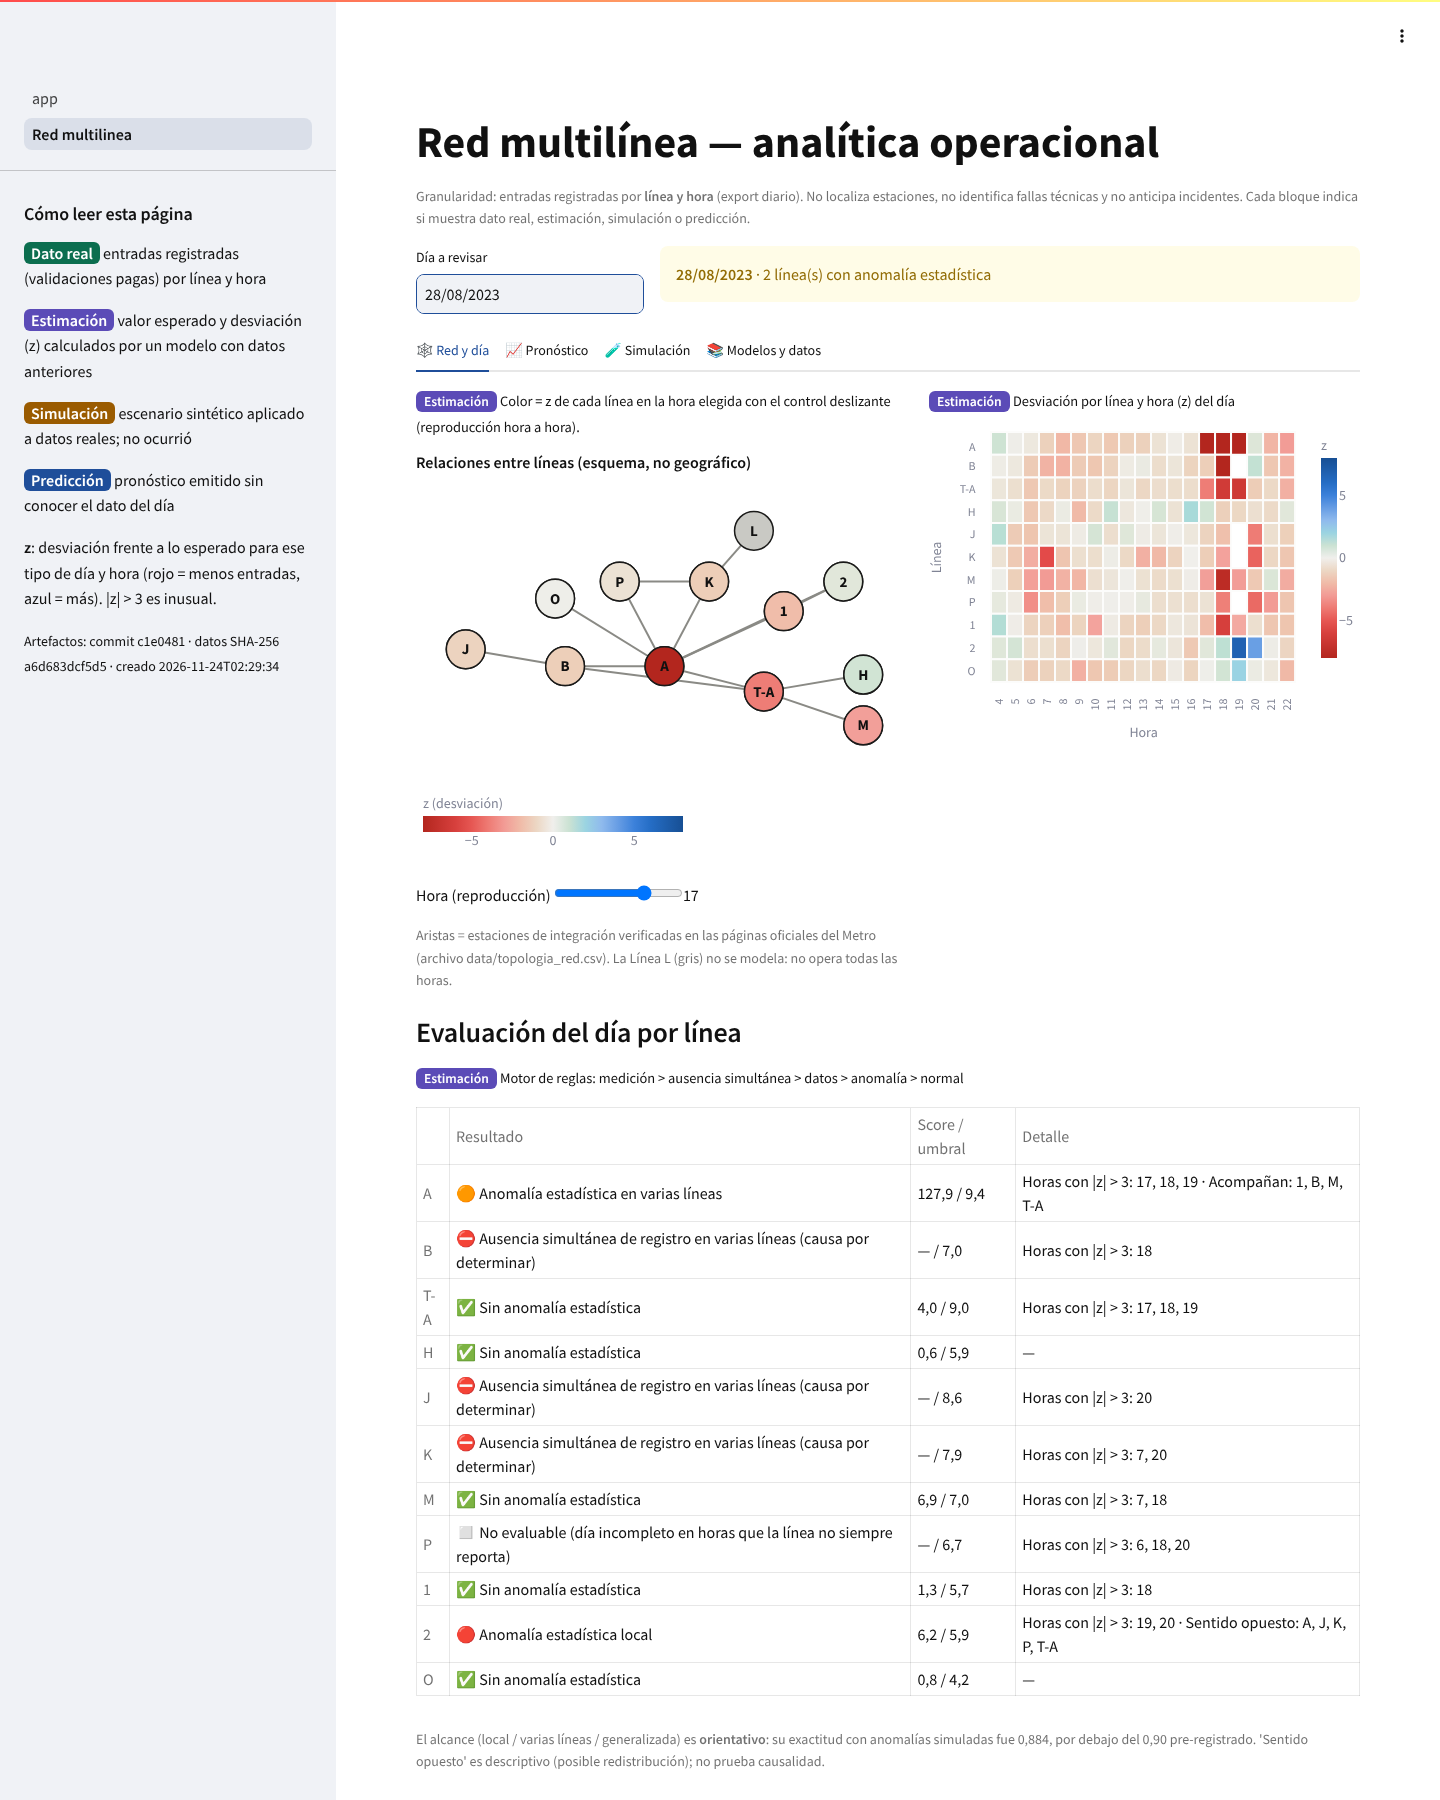
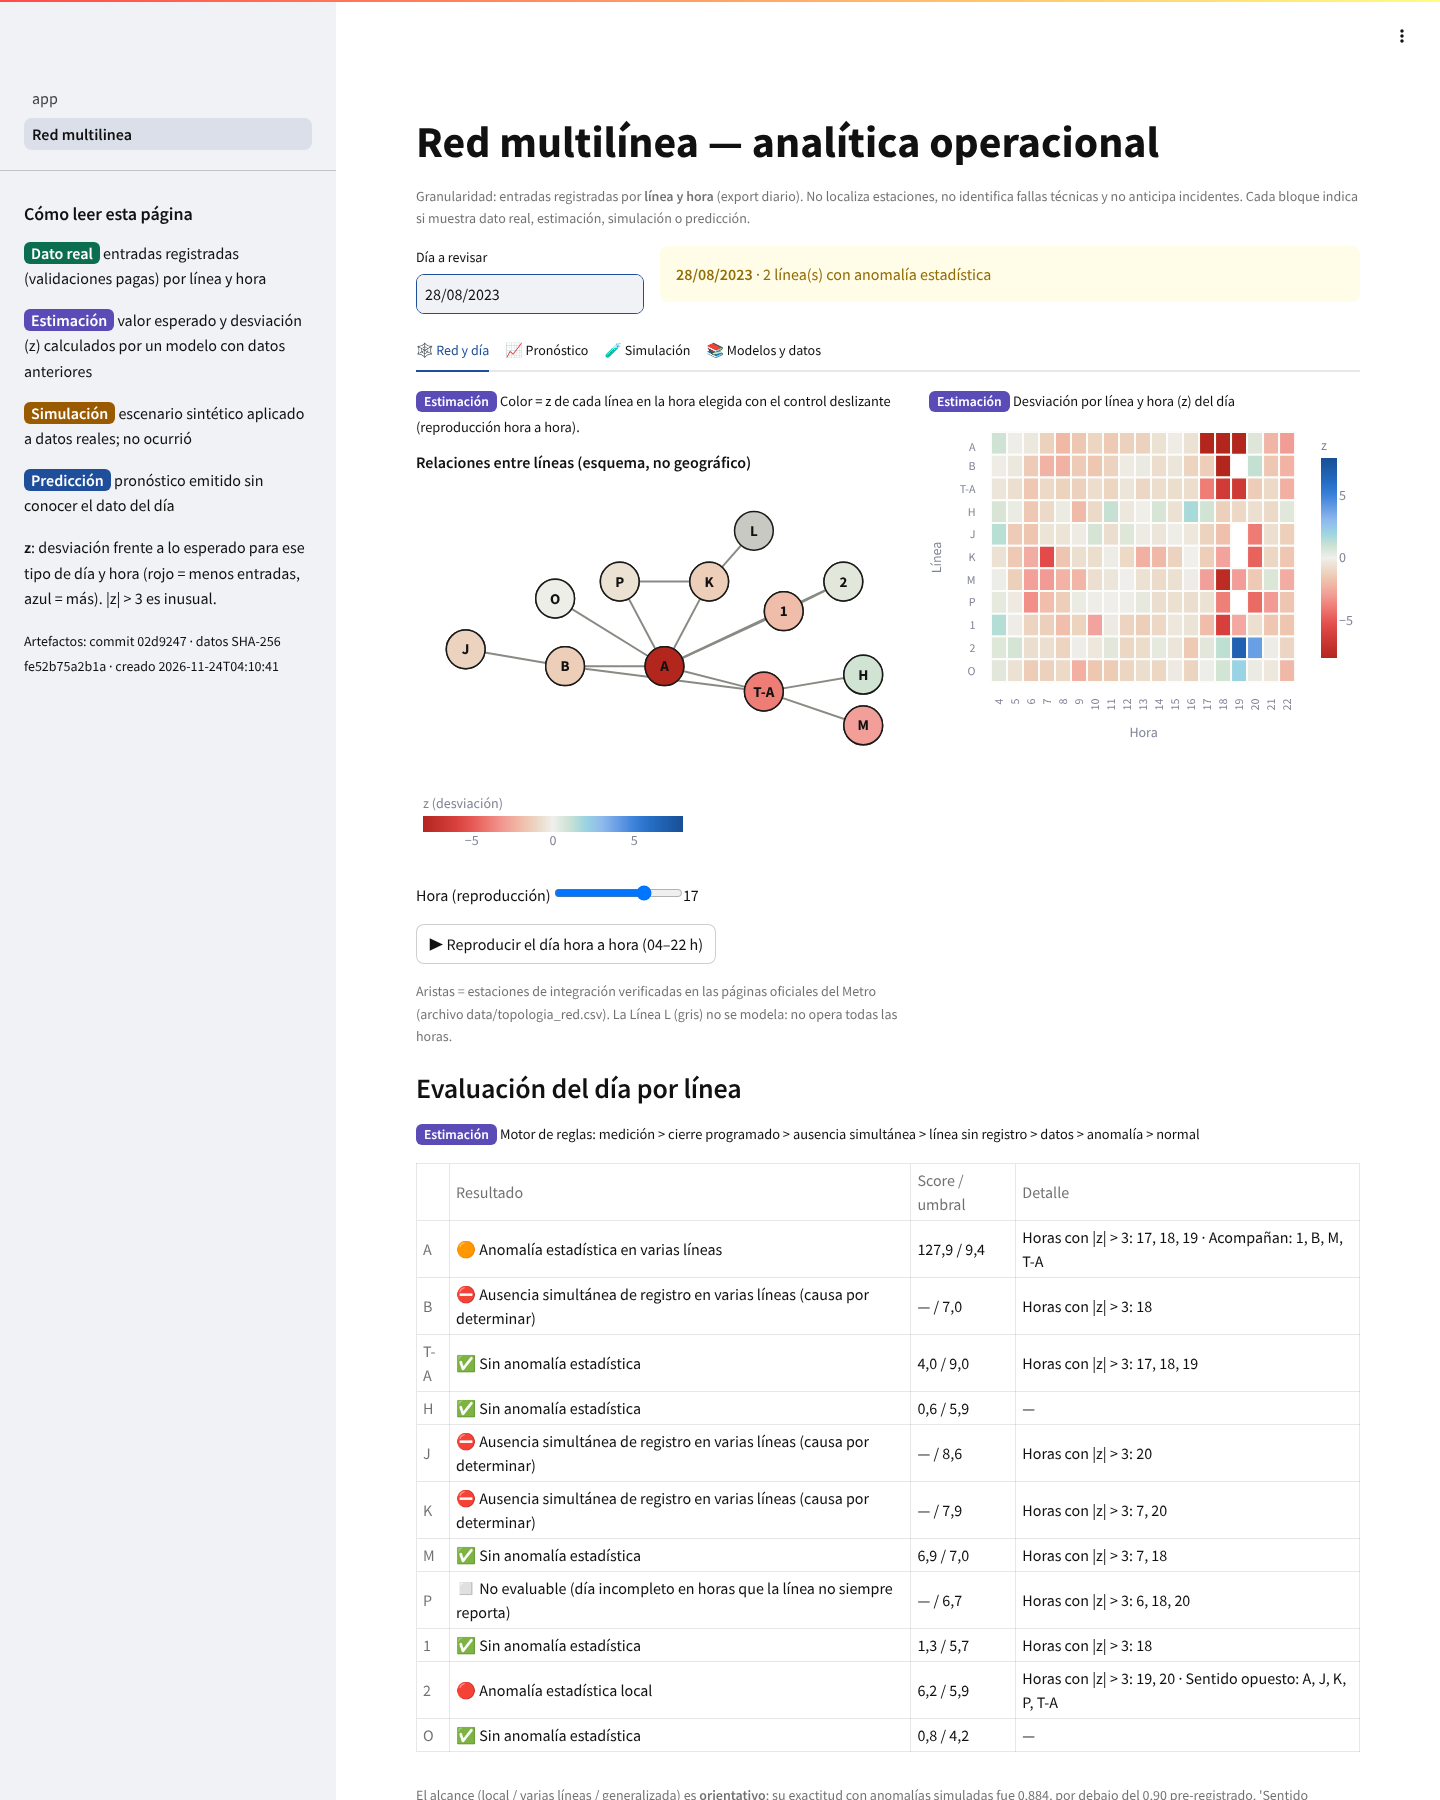
docs(fase3): cierre F10.8 — simulación final de operación, capturas, validación §7 y bitácora
Claude-Session: https://claude.ai/code/session_016irABh8KZBv1MWm4DoR6sZ

diff --git a/docs/validacion/F10_fase3_plataforma.md b/docs/validacion/F10_fase3_plataforma.md
@@ -88,3 +88,38 @@ Sigue **no apta** para detección temprana de incidentes, localización de falla
 - revisar mensualmente la cobertura del intervalo y la tasa de alertas por línea;
 - reconstruir los artefactos con `scripts/fase3/build_plataforma.py` cada vez que lleguen datos nuevos y verificar `git_commit_build` en el manifiesto;
 - no presentar el alcance ni la redistribución como hallazgos validados.
+
+## 7. Cierre de pendientes y evaluación de extremo a extremo de la operación (F10.8)
+| Pendiente | Implementación | Evaluación |
+|---|---|---|
+| Operación diaria multilínea | `src/metro_anomaly/operacion_red.py`; `run_daily.py --red [--pronostico] [--monitor]`; auditoría JSON Lines idempotente; monitoreo por línea (tasa de alertas, cobertura del intervalo, días sin registro, cierres) | 14 pruebas de integración. Simulación cronológica de junio de 2024: **319/319** línea-días iguales a la reproducción histórica y sin advertencias del monitor |
+| Pronóstico operativo | `pronostico.forecast_day` con reajuste diario, banda calibrada con el factor conformal del manifiesto y calendario de cierres | Reajuste diario frente a mensual: WAPE equivalente en las 11 líneas (A: 0,0347 frente a 0,0346); cobertura del 80 % entre 0,797 y 0,901 (`reports/fase3/operacion_red.md`) |
+| Determinismo de la plataforma | `scripts/fase3/check_determinism_plataforma.py` | Dos construcciones aisladas, idénticas entre sí y a las versionadas (`reports/fase3/determinismo_plataforma.md`) |
+| Reproducibilidad desde un clon limpio | Las predicciones fuera de muestra se versionan en `reports/fase3/pronostico_oos_holdout.csv.gz` (antes dependían de un `.pkl` ignorado por git) | La construcción de la verificación de determinismo parte de copias sin `.git` ni `.pkl` |
+| Cierre del 24 y 31 de diciembre | `data/eventos_reales.csv` OP1–OP3; nota en `event_note` | Oficial en 2022 y 2024 (22:00); **2023 solo prensa** (21:00), coherente con los datos |
+| Animación de la reproducción | Botón "▶ Reproducir el día hora a hora" | E2E: 5/5 fotogramas distintos |
+| Fichas del modelo y de los datos | `docs/MODEL_CARD.md`, `docs/DATA_CARD.md` | — |
+
+**Defectos hallados por la evaluación de extremo a extremo y corregidos:**
+
+| # | Defecto | Cómo se detectó | Corrección y prueba |
+|---|---|---|---|
+| D9 | Una evaluación que empezaba a mitad de mes ajustaba con datos hasta t−1 en lugar de hasta el inicio del mes. La Línea 1 del 08/06/2024 perdía la alerta (score 5,80 → 4,66) | Simulación: 309/310 coincidencias | Ajuste siempre con datos anteriores al mes. `test_mid_month_start_matches_full_month` falla sin la corrección |
+| D10 | **Falla silenciosa:** una línea sin ningún registro en el día no generaba fila (M del 14 al 16 y H del 17 al 19/06/2024, cierres de 2022) | Análisis del error de pronóstico de la Línea P (WAPE 0,28) | Categoría "línea sin registro" (la línea operó ≥ 80 % de los 56 días previos) y calendario de cierres programados verificados. 52 días sin registro y 35 días de cierre programado en 2022-04…2024-06 |
+| D11 | El lote fallaba al registrar una línea sin fila en el día (`KeyError`) | Simulación tras D10 (27/06/2024, Línea K) | `reindex`; `test_line_without_records_is_logged` |
+
+**Hallazgo operativo verificado:** la Línea P registró 300–680 entradas al día del 8 al 13/06/2024, frente a unas 22 000 habituales. Fue el mantenimiento anual anunciado por Telemedellín el 06/06/2024.
+- Con el calendario de cierres anunciados, el WAPE de junio de la Línea P baja de 0,276 a 0,092.
+- Los días de cierre se pronostican en 0 por regla y quedan fuera de la cobertura y del WAPE del modelo.
+- Es información anunciada de antemano, sin fuga, pero depende de que alguien cargue los anuncios (fuente n.° 3 de la hoja de ruta).
+- Para 2023 no se halló un anuncio con año explícito: esos cierres aparecen como "línea sin registro".
+
+**Pruebas al cierre:**
+- 194 rápidas aprobadas y 1 omitida (TensorFlow), con 84,8 % de cobertura;
+- 2 E2E aprobadas;
+- verificación visual-datos: 44/44 celdas;
+- animación: 5/5 fotogramas distintos.
+
+**Latencia de la operación diaria:** evaluación de 11 líneas con p95 de 9,4 s; pronóstico del día siguiente con p95 de 55 s, por el reajuste diario de los GBM con 2,5 años de datos.
+
+**Pendiente que no depende del código:** validar la calibración del intervalo y H2/H3 con datos posteriores a junio de 2024 y con la bitácora oficial de incidentes.

diff --git a/reports/fase3/operacion_red.md b/reports/fase3/operacion_red.md
@@ -3,24 +3,24 @@
 Periodo 2024-06-01 … 2024-06-29 (29 días). Cada día t se evalúa con datos ≤ t y se emite el pronóstico de t+1.
 
 - Línea-días registrados: 319; coinciden con la reproducción histórica (`dias.csv.gz`): **319/319**
-- Latencia por día — evaluación de 11 líneas: mediana 8.01 s, p95 8.38 s; pronóstico: mediana 50.83 s, p95 52.23 s
+- Latencia por día — evaluación de 11 líneas: mediana 8.55 s, p95 9.38 s; pronóstico: mediana 53.27 s, p95 55.04 s
 - Alertas del periodo: 2024-06-04 LINEA O, 2024-06-06 LINEA M, 2024-06-08 LINEA 1, 2024-06-12 LINEA T-A, 2024-06-12 LINEA M, 2024-06-17 LINEA 2, 2024-06-25 LINEA J, 2024-06-25 LINEA 1
-- Advertencias del monitor: ['LINEA P: cobertura del intervalo del 80 % = 0.63 fuera de [0.7, 0.9] en 29 días; recalibrar.']
+- Advertencias del monitor: ninguna
 
 ## Pronóstico con reajuste diario (operación) frente a reajuste mensual (reproducción del holdout)
 
-Mismos días y franjas; el intervalo del reajuste diario usa el factor conformal del manifiesto.
+Mismos días y franjas; el intervalo del reajuste diario usa el factor conformal del manifiesto. Las columnas `*_con_cierres` incluyen los días de cierre programado anunciado (el reajuste diario los pronostica 0 usando el anuncio; el mensual no los conoce); las demás columnas los excluyen.
 
-|           |   wape_diario |   wape_mensual |   cobertura_diario |   cobertura_mensual |
-|:----------|--------------:|---------------:|-------------------:|--------------------:|
-| LINEA 1   |        0.0397 |         0.04   |              0.819 |               0.82  |
-| LINEA 2   |        0.0612 |         0.0615 |              0.856 |               0.84  |
-| LINEA A   |        0.0347 |         0.0346 |              0.84  |               0.858 |
-| LINEA B   |        0.0524 |         0.0539 |              0.813 |               0.831 |
-| LINEA H   |        0.0896 |         0.0902 |              0.867 |               0.853 |
-| LINEA J   |        0.0579 |         0.0587 |              0.824 |               0.808 |
-| LINEA K   |        0.0471 |         0.0468 |              0.901 |               0.883 |
-| LINEA M   |        0.0702 |         0.0697 |              0.845 |               0.832 |
-| LINEA O   |        0.0727 |         0.0729 |              0.857 |               0.858 |
-| LINEA P   |        0.0919 |         0.276  |              0.644 |               0.677 |
-| LINEA T-A |        0.0648 |         0.0669 |              0.797 |               0.813 |
+|           |   wape_diario_con_cierres |   wape_mensual_con_cierres |   wape_diario |   wape_mensual |   cobertura_diario |   cobertura_mensual |
+|:----------|--------------------------:|---------------------------:|--------------:|---------------:|-------------------:|--------------------:|
+| LINEA 1   |                    0.0397 |                     0.04   |        0.0397 |         0.04   |              0.819 |               0.82  |
+| LINEA 2   |                    0.0612 |                     0.0615 |        0.0612 |         0.0615 |              0.856 |               0.84  |
+| LINEA A   |                    0.0347 |                     0.0346 |        0.0347 |         0.0346 |              0.84  |               0.858 |
+| LINEA B   |                    0.0524 |                     0.0539 |        0.0524 |         0.0539 |              0.813 |               0.831 |
+| LINEA H   |                    0.0896 |                     0.0902 |        0.0896 |         0.0902 |              0.867 |               0.853 |
+| LINEA J   |                    0.0579 |                     0.0587 |        0.0579 |         0.0587 |              0.824 |               0.808 |
+| LINEA K   |                    0.0471 |                     0.0468 |        0.0471 |         0.0468 |              0.901 |               0.883 |
+| LINEA M   |                    0.0702 |                     0.0697 |        0.0702 |         0.0697 |              0.845 |               0.832 |
+| LINEA O   |                    0.0727 |                     0.0729 |        0.0727 |         0.0729 |              0.857 |               0.858 |
+| LINEA P   |                    0.0919 |                     0.276  |        0.0854 |         0.0861 |              0.787 |               0.827 |
+| LINEA T-A |                    0.0648 |                     0.0669 |        0.0648 |         0.0669 |              0.797 |               0.813 |

diff --git a/docs/BITACORA.md b/docs/BITACORA.md
@@ -355,3 +355,15 @@ Formato: `## AAAA-MM-DD — [Fase/Tarea] título` · **Cambio** · **Decisión**
   - **Calendario de cierres programados:** `data/cierres_programados.csv` incluye solo los anuncios verificados, de 2022 y 2024; para 2023 solo hay notas sin año explícito. Esos días se clasifican "cierre programado", se excluyen del ajuste de los modelos y de los rezagos del pronóstico, y el pronóstico de un día cerrado es 0.
   - Es información anunciada de antemano (por ejemplo, el 06/06 para el 08/06), así que no hay fuga. Sí exige que alguien cargue los anuncios: es la fuente n.° 3 de la hoja de ruta ("oferta programada").
   - Con la regla nueva aparecen además cierres sin anunciar en el calendario: K del 27 al 30/06/2024, J del 30/10 al 01/11/2023, K del 02 al 04/11/2023, entre otros.
+
+## 2026-11-24 — [F10.8] Cierre: D11, simulación final y verificación completa
+- **D11:** el lote fallaba (`KeyError`) al registrar una línea "sin registro", que no tiene fila ese día. Lo halló la simulación del 27/06/2024 (Línea K). Se corrigió con `reindex` y la prueba `test_line_without_records_is_logged`.
+- **Cobertura del pronóstico:** los días de cierre programado se pronostican en 0 por regla. Se excluyen de la cobertura y del WAPE del modelo y se informan aparte (en una ejecución intermedia, la Línea P mostraba una cobertura de 0,644 por incluirlos).
+- **Simulación final de junio de 2024:**
+  - 319/319 línea-días iguales a la reproducción histórica;
+  - sin advertencias del monitor;
+  - WAPE con reajuste diario equivalente al mensual;
+  - WAPE de la Línea P con cierres: 0,092, frente a 0,276 sin el calendario.
+- **Artefactos:** reconstruidos (código `16b3ab3`; el manifiesto registra `02d9247`, que solo añade documentación) y con determinismo re-verificado.
+- **Pruebas:** 194 rápidas y 2 E2E aprobadas; cobertura del 84,8 %.
+- **Informe:** `docs/validacion/F10_fase3_plataforma.md` §7.
